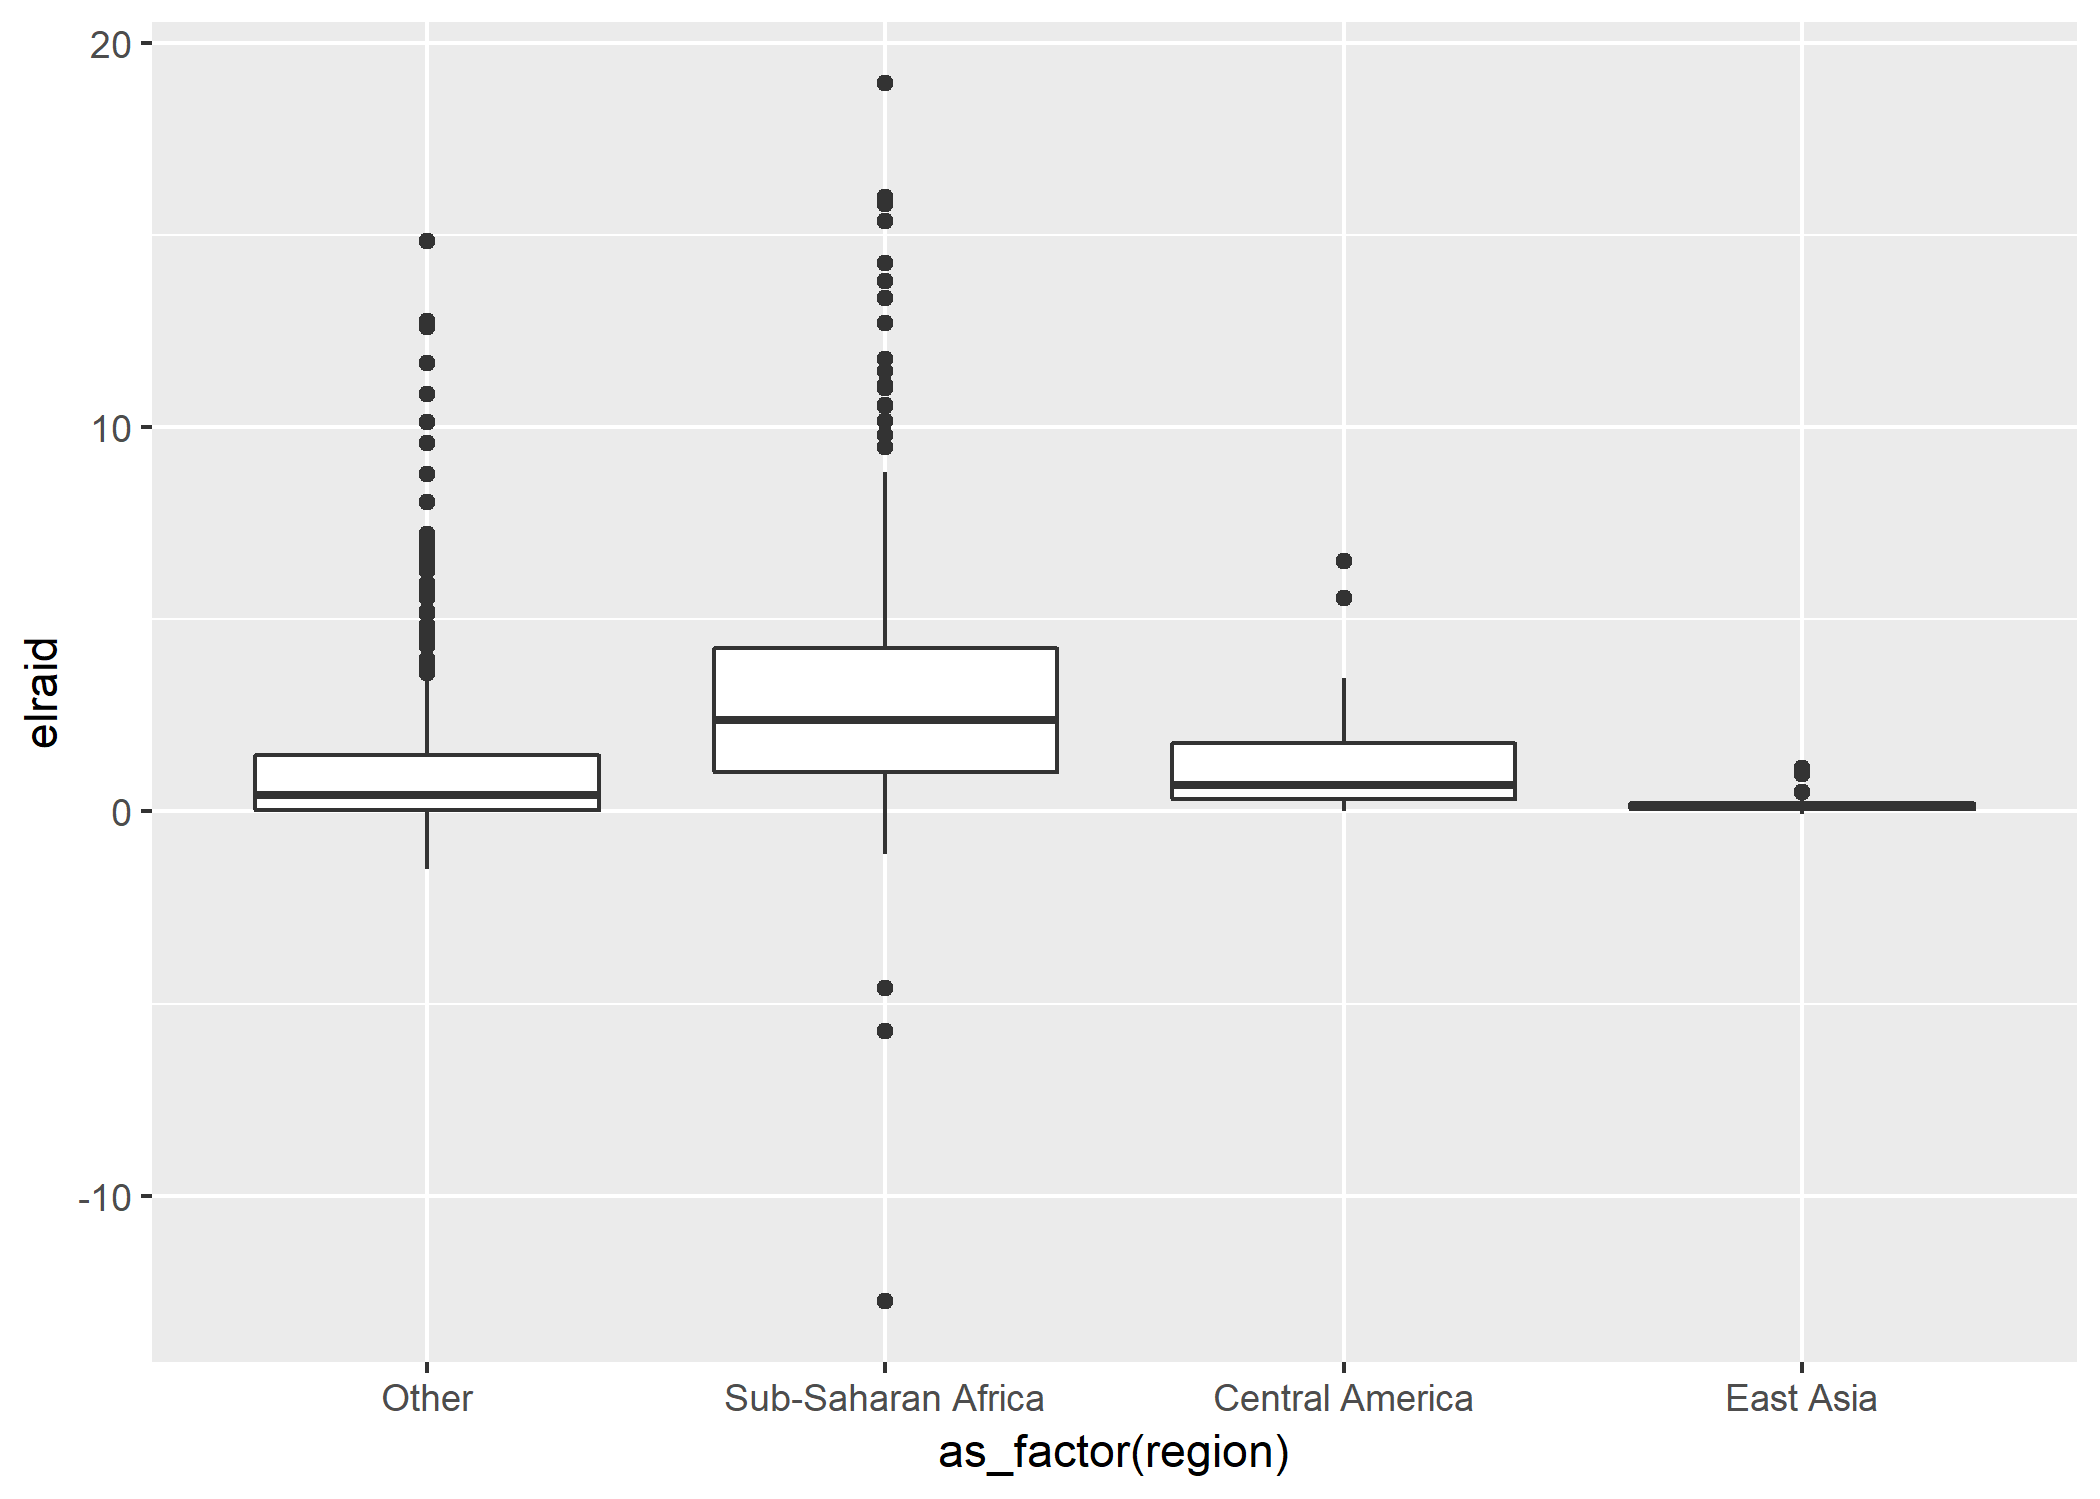
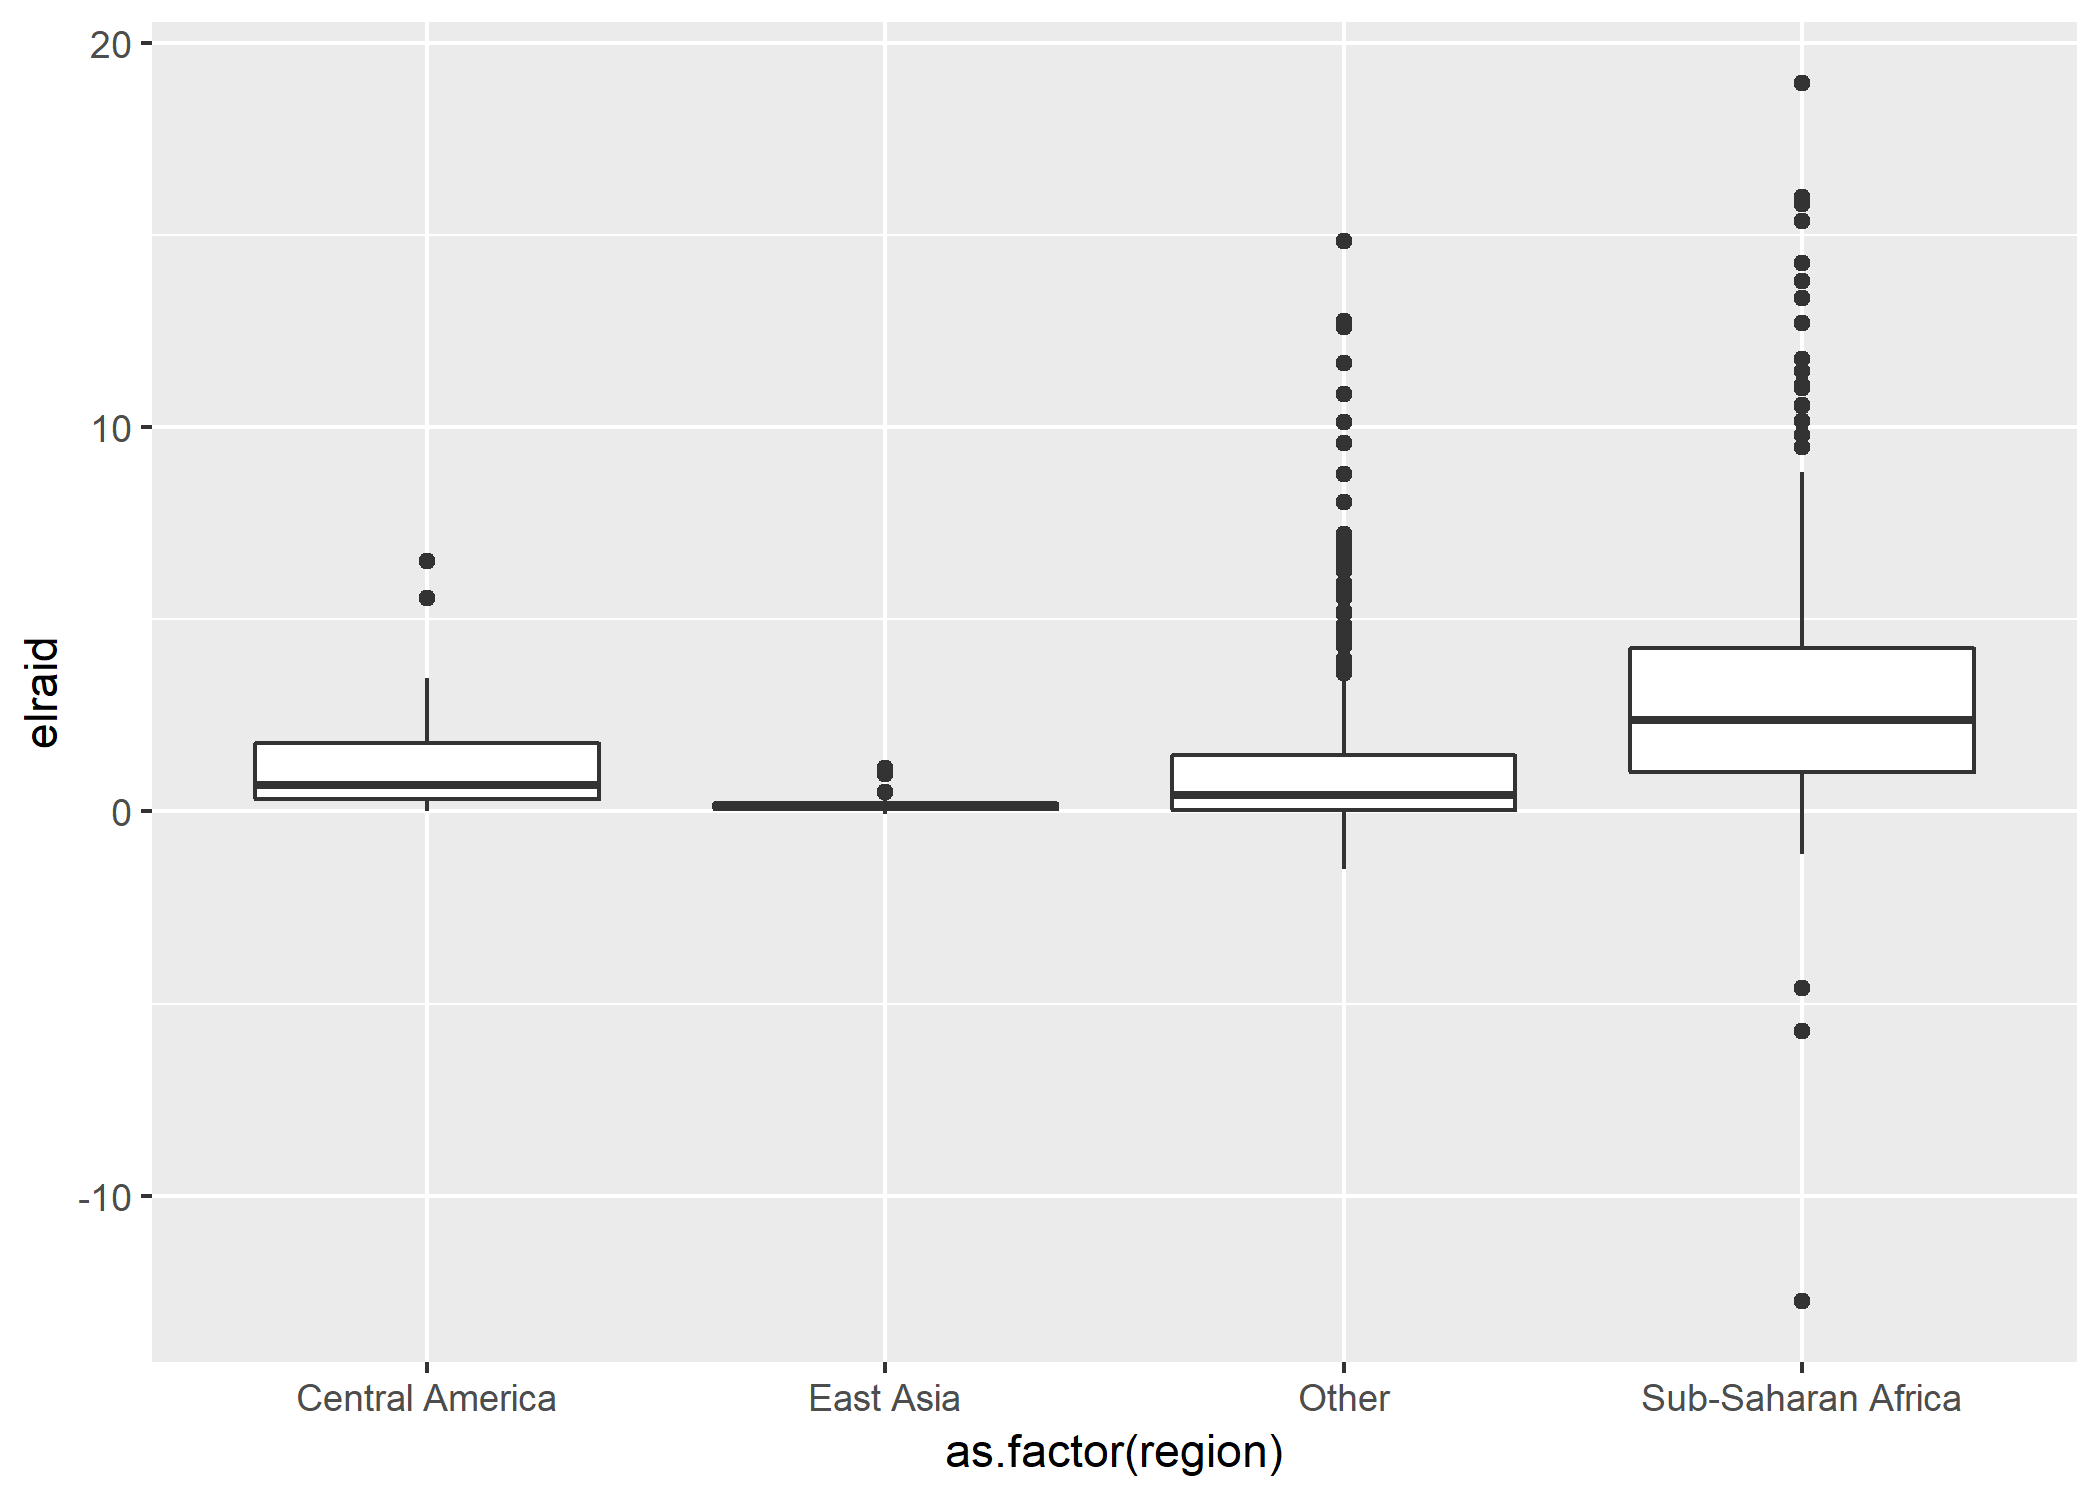
Seminar 1 update

diff --git a/docs/Seminar1.md b/docs/Seminar1.md
@@ -4,9 +4,8 @@ author: "Erlend Langørgen"
 date: "15 august 2019"
 output:
   html_document:
-    keep_md: TRUE
+    keep_md: yes
     self_contained: no
-
 ---
 
 
@@ -144,7 +143,7 @@ Vi skal starte med å laste inn data som et objekt i R. Funksjoner for å laste 
 library(tidyverse) # read_funksjoner fra readr i tidyvsere
 datasett <- read_filtype("filnavn.filtype")
 read_csv("filnavn.csv") # for .csv, sjekk også read.table
-load("")
+load("") # For filer i R-format.
 
 aid <-  read_csv("https://raw.githubusercontent.com/langoergen/stv4020aR/master/data/aid.csv")
 
@@ -356,19 +355,19 @@ quantile(aid$elrgdpg, na.rm = T)
 ```r
 #install.packages("moments")
 library(moments)
-skewness(aid$elrgdpg) # skjevhet - fra moments
+skewness(aid$elrgdpg, na.rm = T) # skjevhet - fra moments
 ```
 
 ```
-## [1] NA
+## [1] 0.08339805
 ```
 
 ```r
-kurtosis(aid$elrgdpg) # kurtose - fra moments
+kurtosis(aid$elrgdpg, na.rm = T) # kurtose - fra moments
 ```
 
 ```
-## [1] NA
+## [1] 27.35215
 ```
 
 ```r
@@ -825,19 +824,19 @@ var(aid$elrgdpg, na.rm = T)     # varians
 ```r
 #install.packages("moments")
 library(moments)
-skewness(aid$elrgdpg) # skjevhet - fra moments
+skewness(aid$elrgdpg, na.rm = T) # skjevhet - fra moments
 ```
 
 ```
-## [1] NA
+## [1] 0.08339805
 ```
 
 ```r
-kurtosis(aid$elrgdpg) # kurtose - fra moments
+kurtosis(aid$elrgdpg, na.rm = T) # kurtose - fra moments
 ```
 
 ```
-## [1] NA
+## [1] 27.35215
 ```
 
 ```r
@@ -1274,7 +1273,7 @@ Med et boxplot får du raskt oversikt over fordelingen til variabler innenfor ul
 
 
 ```r
-ggplot(aid) + geom_boxplot(aes(x = as_factor(region), y = elraid))
+ggplot(aid) + geom_boxplot(aes(x = as.factor(region), y = elraid))
 ```
 
 ![](../bilder/seminar1_2.png)<!-- -->
@@ -1343,7 +1342,7 @@ Her er et overlesset eksempel på et scatterplot (poenget er å illustrere mulig
 ```r
 library(ggplot2)
 ggplot(aid) +
-  geom_point(aes(x=elraid, y=elrgdpg, col=policy, shape=as_factor(region))) +
+  geom_point(aes(x=elraid, y=elrgdpg, col=policy, shape=as.factor(region))) +
   geom_smooth(aes(x=elraid, y=elrgdpg), method="lm") +  # merk: geom_smooth gir bivariat regresjon
   ggtitle("Visualization of relationship between aid and growth to showcase ggplot") +
   xlab("aid") +
